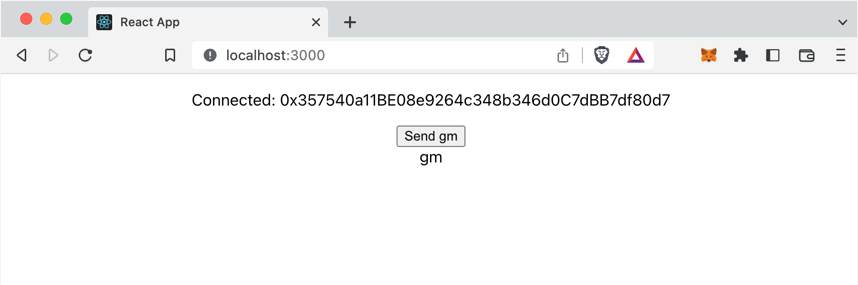
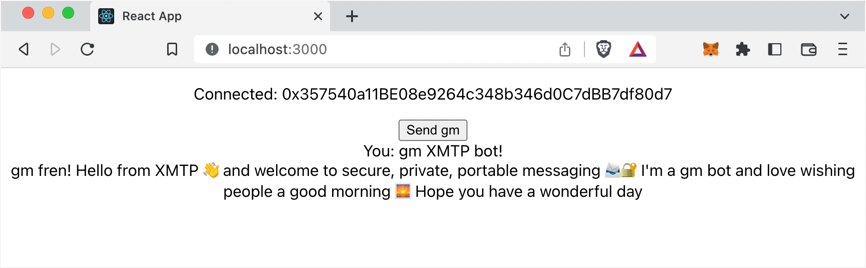
code updates to change message flow

diff --git a/docs/client-sdk/javascript/tutorials/build-an-xmtp-hello-world-app.md b/docs/client-sdk/javascript/tutorials/build-an-xmtp-hello-world-app.md
@@ -19,9 +19,11 @@ As its name implies, the XMTP "hello world" app is intentionally barebones. Here
 
    ![MetaMask browser extension Signature request window showing an "XMTP: Enable Identity" message](img/connect-to-xmtp.png)<!--I think this is a dupe screenshot-->
 
-3. Send a preconfigured "gm" message to your connected blockchain account address.
+3. Send a preconfigured "gm" message to an XMTP message bot and receive a reply from the bot.
 
-   ![Screenshot of the hello world app running in a browser at localhost:3000 showing a connected Ethereum account address, a Send gm button, and a gm message below the button](img/send-gm.png)
+   ![Screenshot of the hello world app running in a browser at localhost:3000 showing a connected Ethereum account address, a Send gm button, a gm message from the connected address, and a reply message from the XMTP message bot](img/send-gm.png)
+
+<!--Currently, the XMTP message bot replies with the message displayed in the screenshot. We might want to shorten it a bit? Then the bot sends another message, unprompted. I think the bot should send the second message only after it receives another "gm" message from the app. We can refine the ChainJet workflow - just putting this comment here as an FYI about the behavior.-->
 
 The app includes only the code required to accomplish these steps and little else. This helps keep the codebase relatively bite-sized so that developers of all skill levels can ease into learning the basics of building a messaging app with XMTP.
 
@@ -235,6 +237,8 @@ Before starting this task, be sure to have a wallet app browser extension instal
 
    Your "hello world" app UI doesn't change. However, in your wallet app you can see that your account is now connected to your "hello world" app running at `localhost:3000`:
 
+   <!--for me, the MetaMask browser extension doesn't open on its own sometimes - I think it is when you start up the app and the address is already connected to localhost, for example. To make MetaMask display, I need to disconnect the adddress, reload the app, and then click Connect wallet.-->
+
    ![Screenshot of the MetaMask wallet app browser extension showing an account named Amal with an Ethereum account address with the last 4 characters 80d7 connected to localhost:3000](img/connect-wallet-prompt.png)
 
 8. Before you start the next section, stop the app running in your CLI. To do this, press **Ctrl+C**.
@@ -268,9 +272,11 @@ Your "hello world" app uses a **Connect to XMTP** button to enable you to provid
 
    This code provides the XMTP functionality your "hello world" app needs to initiate the XMTP messaging API client and use it to communicate with the XMTP network to send and retrieve messages.
 
+   <!--The ChainJet workflow has the XMTP message bot on production - so the hw app needs to run on production. If we think this should be on dev, we need to switch the bot to work on dev.-->
+
    :::important
 
-   In this code block, `env: "dev"` connects your "hello world" app to the XMTP `dev` network. This means that the "gm" messages you send with the app are accessible using only apps that are connected to the XMTP `dev` network. To learn more about working with XMTP network environments, see [XMTP production and dev network environments](https://github.com/xmtp/xmtp-js#xmtp-production-and-dev-network-environments).
+   In this code block, `env: "production"` connects your "hello world" app to the XMTP `production` network. This means that the "gm" messages you send with the app are accessible using only apps that are connected to the XMTP `production` network. To learn more about working with XMTP network environments, see [XMTP production and dev network environments](https://github.com/xmtp/xmtp-js#xmtp-production-and-dev-network-environments).
 
    :::
 
@@ -296,7 +302,7 @@ Your "hello world" app uses a **Connect to XMTP** button to enable you to provid
       const initClient = async (wallet) => {
         if (wallet && !providerState.client) {
           try {
-            const client = await Client.create(wallet, { env: "dev" });
+            const client = await Client.create(wallet, { env: "production" });
             setProviderState({
               ...providerState,
               client,
@@ -335,7 +341,7 @@ Your "hello world" app uses a **Connect to XMTP** button to enable you to provid
           const convos = await client.conversations.list();
           Promise.all(
             convos.map(async (convo) => {
-              if (convo.peerAddress === walletAddress) {
+              if (convo.peerAddress === "0x937C0d4a6294cdfa575de17382c7076b579DC176") {
                 let messages = convoMessages.get(convo.peerAddress);
                 if (!messages) {
                   messages = await convo.messages();
@@ -464,7 +470,7 @@ Your "hello world" app uses a **Connect to XMTP** button to enable you to provid
 
 Now that the XMTP identity associated with your blockchain account is connected to the XMTP network, you can send and receive messages with XMTP.
 
-For simplicity, your "hello world" app enables you to send a preconfigured "gm" message (hello world) to your own already connected account. This makes it easy for you to immediately see the outcome of sending a message.
+For simplicity, your "hello world" app enables you to send a preconfigured "gm" message (hello world) to an XMTP message bot that is programmed to automatically reply to an address it receives a message from. This makes it easy for you to immediately see the outcome of sending a message.
 
 1. In the `my-app/src` directory, create a `hooks` directory. In the `hooks` directory, create a file named `useStreamMessages.js`.
 
@@ -478,7 +484,6 @@ For simplicity, your "hello world" app enables you to send a preconfigured "gm" 
     import { XmtpContext } from "../contexts/XmtpContext";
 
     const useStreamMessages = (peerAddress) => {
-      const { walletAddress } = useContext(WalletContext);
       const [providerState, setProviderState] = useContext(XmtpContext);
       const { client, convoMessages } = providerState;
       const [stream, setStream] = useState("");
@@ -527,20 +532,20 @@ For simplicity, your "hello world" app enables you to send a preconfigured "gm" 
           closeStream();
         };
         // eslint-disable-next-line
-      }, [convoMessages, walletAddress, conversation]);
+      }, [convoMessages, peerAddress, conversation]);
     };
 
     export default useStreamMessages;
     ```
 
-2. In the `my-app/src` directory, update the existing `App.js` file to add a `sendMessage` constant, which sends the **gm** message to the connected account. Then create the **Send gm** button UI element that, when clicked, uses `sendMessage` to send the **gm** message.
+2. In the `my-app/src` directory, update the existing `App.js` file to add a `sendMessage` constant, which sends the **gm XMTP bot!** message to the XMTP message bot. Then create the **Send gm** button UI element that, when clicked, uses `sendMessage` to send the **gm XMTP bot!** message.
 
    Also, enable the app to display existing messages and stream new messages using the `useStreamMessages` hook you just created.
 
-   To do this, copy this code block and paste it into the file, replacing all existing code. For reference, lines with code changes are highlighted.
+   To do this, copy this code block and paste it into the file, replacing all existing code. For reference, lines with code changes are highlighted. <!-- These highlighted line numbers below are off because the App.js code has changed quite a bit to provide the updated flow. Also, this code me change even more based on the fix to make existing messages display. So let's see how everything shakes out and then we can see which lines of code need to be higlighted.-->
 
     ```js {5,10-23,37,39-52} showLineNumbers
-    import { useContext } from "react";
+    import { useContext, useEffect, useState } from "react";
     import "./App.css";
     import { WalletContext } from "./contexts/WalletContext";
     import { XmtpContext } from "./contexts/XmtpContext";
@@ -548,21 +553,36 @@ For simplicity, your "hello world" app enables you to send a preconfigured "gm" 
 
     function App() {
       const { connectWallet, walletAddress, signer } = useContext(WalletContext);
-      const [providerState] = useContext(XmtpContext);
-      const { convoMessages,client } = providerState;
-      useStreamMessages(walletAddress);
+      const [providerState, setProviderState] = useContext(XmtpContext);
+      const { convoMessages, client } = providerState;
+      const [peerAddress] = useState("0x937C0d4a6294cdfa575de17382c7076b579DC176");
+      useStreamMessages(peerAddress);
 
       const sendMessage = async () => {
-        const message = "gm";
+        const message = "gm XMTP bot!";
         if (!client || !walletAddress) {
           return;
         }
-        const conversation = await client.conversations.newConversation(
-          walletAddress
-        );
+        const conversation = await client.conversations.newConversation(peerAddress);
         if (!conversation) return;
         await conversation.send(message);
       };
+
+      const [newMessages, setNewMessages] = useState([]);
+      useEffect(() => {
+        if (!convoMessages || !peerAddress) {
+          return;
+        }
+
+        let newMessages = convoMessages.get(peerAddress);
+
+        if (!newMessages) {
+          newMessages = [];
+          convoMessages.set(peerAddress, newMessages);
+        }
+
+        setNewMessages(newMessages);
+      }, [convoMessages, peerAddress]);
 
       return (
         <div className="App">
@@ -583,7 +603,7 @@ For simplicity, your "hello world" app enables you to send a preconfigured "gm" 
                   </button>
                   <div className="msg-container">
                     {convoMessages &&
-                      convoMessages.get(walletAddress)?.map((msg) => {
+                      convoMessages.get(peerAddress)?.map((msg) => {
                         return (
                           <div className="msg" key={msg.id}>
                             {msg.content}
@@ -608,13 +628,13 @@ For simplicity, your "hello world" app enables you to send a preconfigured "gm" 
 
    :::important
 
-   If you've used your connected account to send XMTP messages to itself on the XMTP `dev` network in the past, the messages appear in your "hello world" app.
+   If you've used your connected account to send XMTP messages to the XMTP message bot on the XMTP `production` network in the past, the messages appear in your "hello world" app.
 
    :::
 
    ![Screenshot of the hello world app running in a browser at localhost:3000 showing a connected Ethereum account address and a Send gm button](img/connected.png)
 
-4. Click **Send gm**. The **gm** message appears.
+4. Click **Send gm**. The sent **gm XMTP bot!** message appears. Within a few seconds, a message from the XMTP bot displays.
 
    ![Screenshot of the hello world app running in a browser at localhost:3000 showing a connected Ethereum account address, a Send gm button, and a gm message below the button](img/send-gm.png)
 
